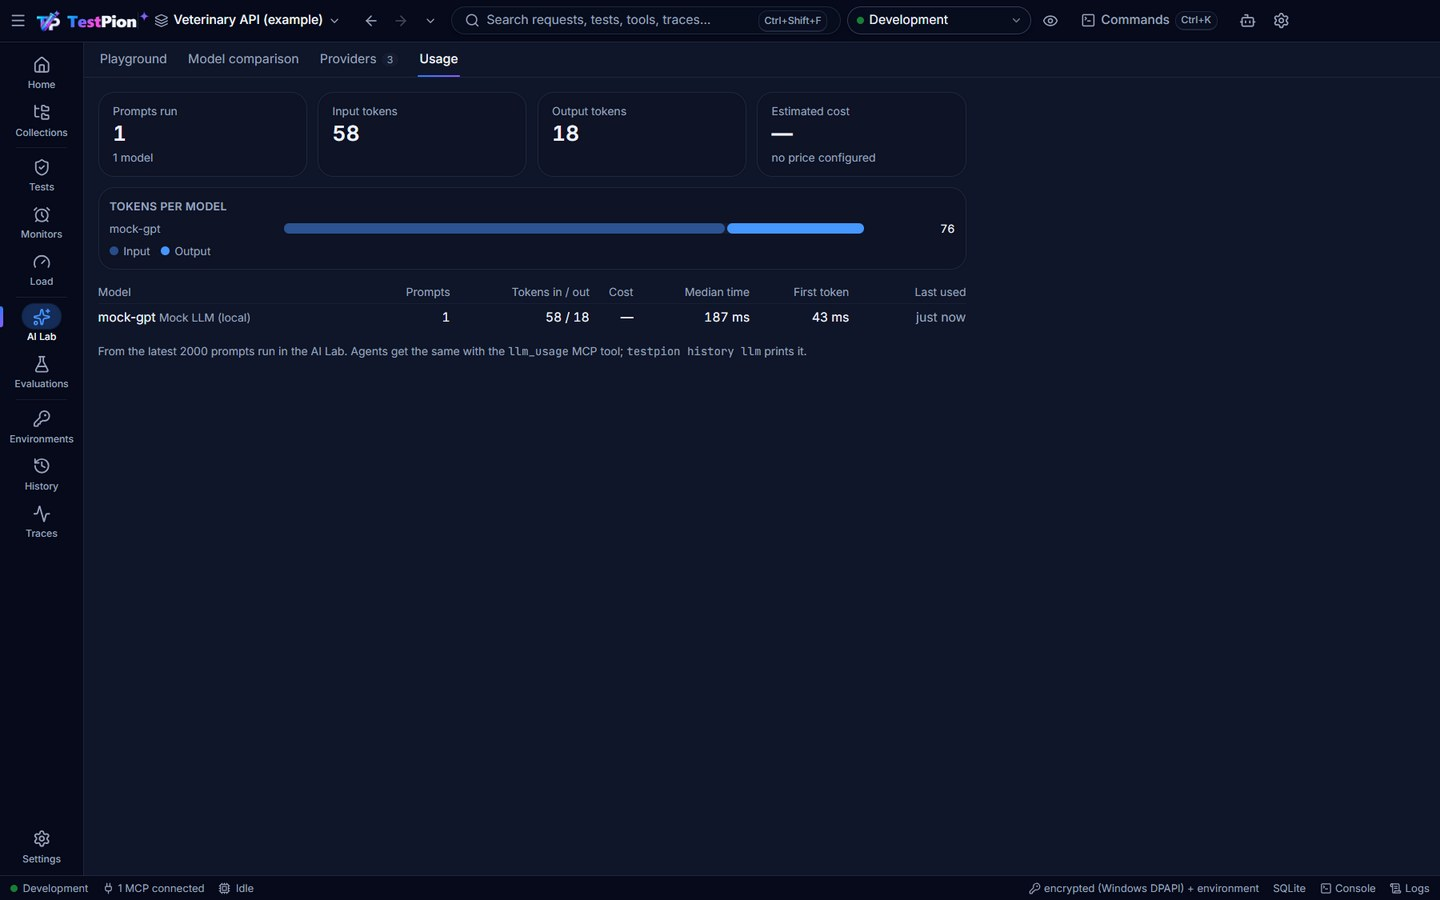
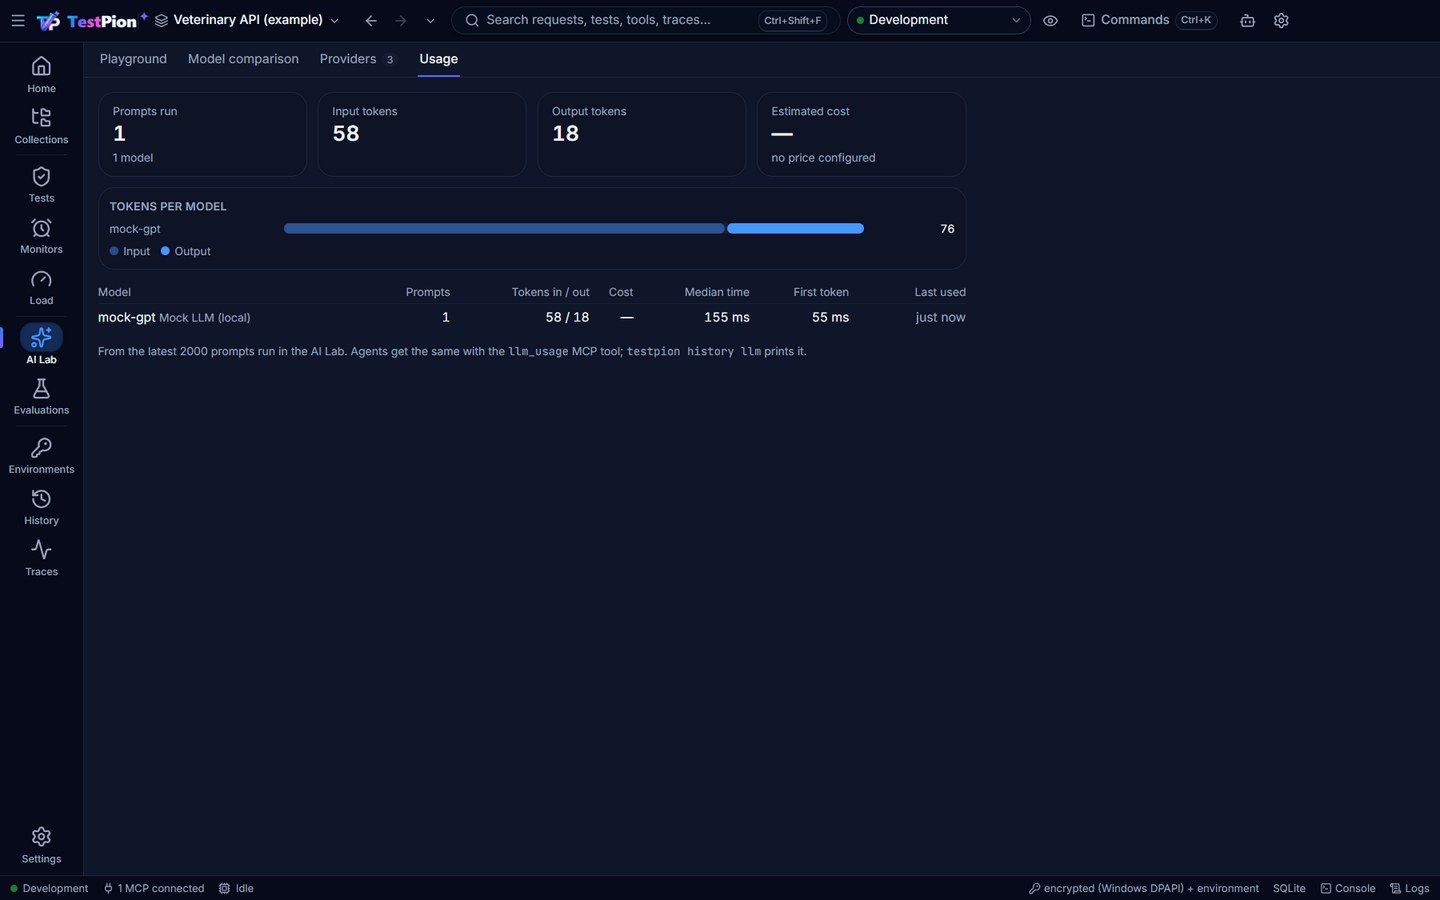
Release v0.37.0

Changed region(s): [[0.0, 0.1867, 0.0625, 0.6222], [0.0, 0.0622, 0.0625, 0.1556], [0.0, 0.9022, 0.0312, 0.9333]]

diff --git a/packages/core/src/version.ts b/packages/core/src/version.ts
@@ -1,2 +1,2 @@
 /** TestPion's version (the engine, CLI and app are released together). */
-export const ENGINE_VERSION = '0.36.0';
+export const ENGINE_VERSION = '0.37.0';

diff --git a/CHANGELOG.md b/CHANGELOG.md
@@ -1,5 +1,17 @@
 # Changelog
 
+## 0.37.0 — 2026-10-01
+
+Highlights: AI agents can use TestPion with nothing but the app installed, and get much more from it.
+
+- **The app is an MCP server**: `TestPion --mcp-server -w <workspace>` serves a workspace to AI agents over stdio, with the secrets saved in the app and no window (`--read-only`, `--allow-production` as for the CLI). The app can stay open at the same time.
+- **Settings ▸ AI agents (MCP)**: copy-ready setup for Claude Code, Claude Desktop, Cursor / Windsurf, VS Code (Copilot) and Codex, filled in for the open workspace, with read-only and production switches. **Test connection** starts the server the way your agent will and shows what it offers. Also in the command palette (*Connect an AI agent*).
+- **AGENTS.md**: **Write AGENTS.md** (or `testpion agents-md`) adds a TestPion section to the workspace's AGENTS.md, which coding agents read first: how to use the workspace over MCP and the CLI, the check types and the test file format. Your own text stays; no paths of your machine are written.
+- **MCP server**: every tool has a title and behaviour hints (read-only, destructive, idempotent, reaches the network), so agents can run the read-only ones without asking; results come as structured content too. New **resources** (a guide, the workspace, what needs attention, each collection's docs, a saved request) and **prompts** (`investigate_failures`, `write_tests`, `debug_request`, `api_health_report`, `import_and_test`).
+- **Agents can write tests**: `testpion_guide` (check types and the test file format), `set_request_checks` (checks on a saved request; unknown types are refused) and `write_test_file` (checked before it is saved; never overwrites without `overwrite: true`).
+- **No open requests** shows in every request view when its tabs are closed (it was blank for GraphQL, gRPC, WebSocket, MCP and API definitions), with the view's own New first (e.g. **Add MCP server**); closing the last tab of one editor while others are open shows the nearest tab.
+- Bigger icons on the left rail.
+
 ## 0.36.0 — 2026-10-01
 
 Highlights: the new TestPion logo, one look for every sidebar and menu, a JWT inspector, and workspace Export in the switcher.
